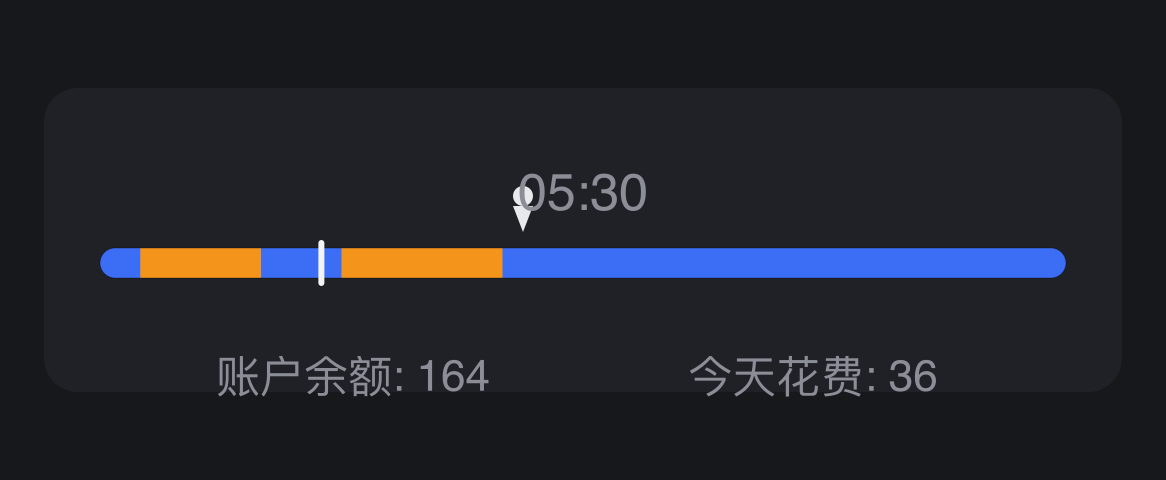
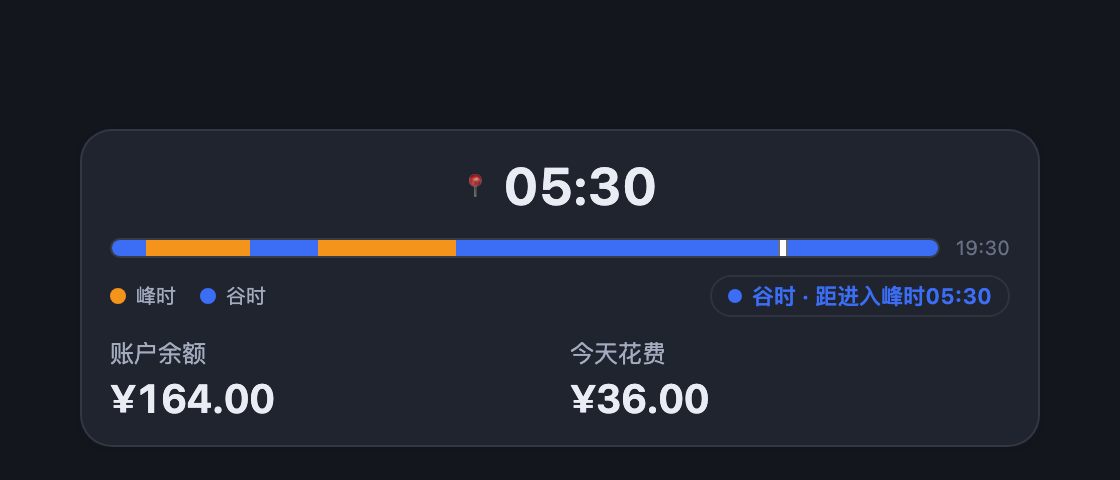
docs: replace promo mock with real widget render, fix repo links

diff --git a/README.en.md b/README.en.md
@@ -6,7 +6,7 @@
 
 Live off-peak countdown · period badge · official account balance · today's spend. Customizable valley color, numbers-only minimal mode, and switchable minimal ↔ detailed styles.
 
-[![version](https://img.shields.io/badge/version-0.1.0-4176E6)](https://github.com/istone/dsh-valley-meter)
+[![version](https://img.shields.io/badge/version-0.1.0-4176E6)](https://github.com/uckkk/dsh-valley-meter)
 [![license](https://img.shields.io/badge/license-MIT-green)](LICENSE)
 [![dsh](https://img.shields.io/badge/DeepSeek%20Harness-dsh--plugin-4176E6)](https://github.com/deepseek-ai/deepseek-harness)
 

diff --git a/README.md b/README.md
@@ -6,7 +6,7 @@
 
 峰谷实时倒计时 · 时段徽标 · 官方账户余额 · 今日消耗 — 谷色可自定义,余额/花费纯数字极简模式,极简 ↔ 详细样式自由切换。
 
-[![version](https://img.shields.io/badge/version-0.1.0-4176E6)](https://github.com/istone/dsh-valley-meter)
+[![version](https://img.shields.io/badge/version-0.1.0-4176E6)](https://github.com/uckkk/dsh-valley-meter)
 [![license](https://img.shields.io/badge/license-MIT-green)](LICENSE)
 [![dsh](https://img.shields.io/badge/DeepSeek%20Harness-dsh--plugin-4176E6)](https://github.com/deepseek-ai/deepseek-harness)
 
